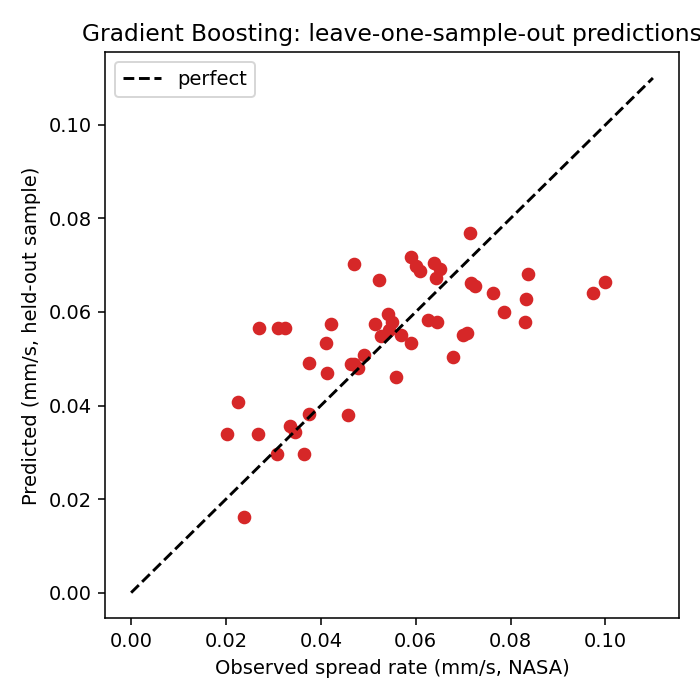
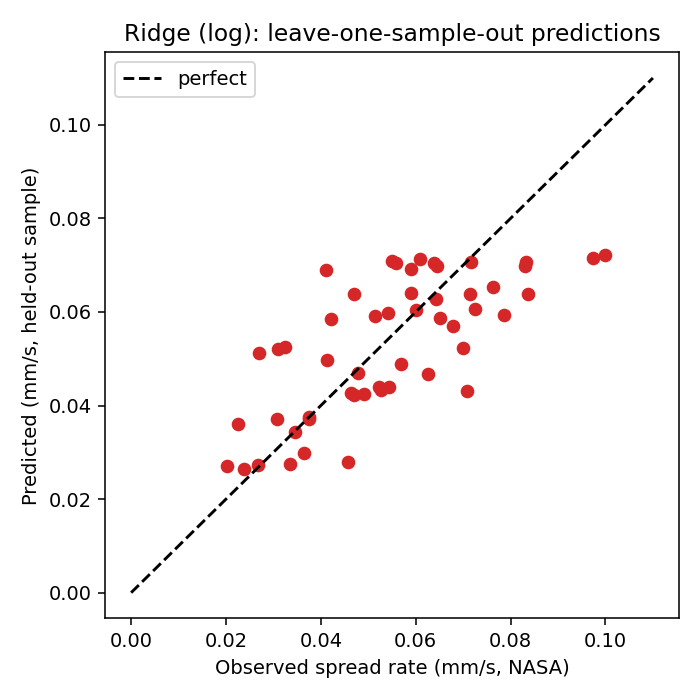
ML/RAG

diff --git a/frontend/src/PredictiveLab.jsx b/frontend/src/PredictiveLab.jsx
@@ -8,10 +8,10 @@ import './PredictiveLab.css';
 //   bash backend/ai/ml/run_all.sh                      (once, trains the model)
 //   uvicorn backend.api.main:app --reload --port 8000
 
-const USE_MOCK = true;
+const USE_MOCK = false; // real backend: POST /api/predict and /api/sweep
 // Backend routes live in backend/api/ml_routes.py. The backend only allows the
 // browser origin http://localhost:5173, so open the app at exactly that address.
-const API_BASE = 'http://localhost:8000/api';
+const API_BASE = '/api'; // proxied to the backend by Vite (see vite.config.js)
 const API_URL = `${API_BASE}/predict`;
 const SWEEP_URL = `${API_BASE}/sweep`;
 
@@ -25,7 +25,7 @@ const TRAINED = {
 const APPROX_ERROR = 0.0138; // typical cross-validated error, mm/s
 const ROD_LENGTH_MM = 57;
 
-// Hand-tuned stand-in for the Gradient Boosting model. NOT real NASA output.
+// Hand-tuned stand-in for the real model (only used when USE_MOCK = true). NOT real NASA output.
 // Shape: rises with O2, rises then falls with airflow, falls with thicker rods,
 // clamped to the 0.02–0.10 mm/s range seen in the real data.
 function mockModel(o2, flow, diameter) {
@@ -116,7 +116,7 @@ function buildMockResponse({ o2_percent: o2, opposed_flow_cm_s: flow, rod_diamet
         Number((rate + APPROX_ERROR).toFixed(4)),
       ],
       valueType: 'mock_prediction',
-      model: 'Mock curve (stand-in for Gradient Boosting)',
+      model: 'Mock curve (stand-in for the Ridge model)',
     },
     peakTemperature: {
       available: false,
@@ -174,10 +174,10 @@ async function fetchSweep(flow, diameter, { signal } = {}) {
 /* ===== End API layer ===== */
 
 const MODEL_STATS = [
-  { label: 'MAE', value: '0.0105 mm/s' },
-  { label: 'RMSE', value: '0.0137 mm/s' },
-  { label: 'R²', value: '0.47' },
-  { label: 'MAPE', value: '22.1%' },
+  { label: 'MAE', value: '0.0108 mm/s' },
+  { label: 'RMSE', value: '0.0133 mm/s' },
+  { label: 'R²', value: '0.51' },
+  { label: 'MAPE', value: '21.6%' },
   { label: 'Samples', value: '19 (52 tests)' },
 ];
 
@@ -266,11 +266,11 @@ function SweepChart({ flow, diameter, o2, result }) {
   const err = sweep.approxError;
   const hasData = pts.length > 0;
   const line = pts.map((p, i) => `${i ? 'L' : 'M'}${sx(p.o2).toFixed(1)} ${sy(p.rate).toFixed(1)}`).join(' ');
-  const upper = pts.map((p) => `${sx(p.o2).toFixed(1)} ${sy(Math.min(yMax, p.rate + err)).toFixed(1)}`);
+  const upper = pts.map((p) => `${sx(p.o2).toFixed(1)} ${sy(Math.min(yMax, p.hi ?? p.rate + err)).toFixed(1)}`);
   const lower = pts
     .slice()
     .reverse()
-    .map((p) => `${sx(p.o2).toFixed(1)} ${sy(Math.max(0, p.rate - err)).toFixed(1)}`);
+    .map((p) => `${sx(p.o2).toFixed(1)} ${sy(Math.max(0, p.lo ?? p.rate - err)).toFixed(1)}`);
   const band = `M${upper.join(' L')} L${lower.join(' L')} Z`;
 
   const showMarker = result && o2 >= xLo && o2 <= xHi;
@@ -413,7 +413,7 @@ export default function PredictiveLab({ gravityOption }) {
   const hazard = result?.risk.hazardIndicator ?? '';
   const hazardClass = hazard.startsWith('Lower')
     ? 'hazard--low'
-    : hazard.startsWith('Higher')
+    : hazard.startsWith('Higher') || hazard.startsWith('Upper')
     ? 'hazard--high'
     : 'hazard--mid';
   const confClass = result?.confidence === 'Low' ? 'conf--low' : 'conf--mid';
@@ -582,7 +582,7 @@ export default function PredictiveLab({ gravityOption }) {
           ))}
         </dl>
         <p className="caption">
-          Gradient Boosting, leave-one-sample-out validation, trained on NASA BASS-II ISS tests (Link et al., 2018).
+          Ridge regression on log(spread rate), leave-one-sample-out validation, trained on NASA BASS-II ISS tests (Link et al., 2018).
           {USE_MOCK && ' The values above are produced by a mock curve until the backend is connected.'}
         </p>
       </div>

diff --git a/backend/ai/ml/train_model.py b/backend/ai/ml/train_model.py
@@ -7,19 +7,37 @@ from sklearn.ensemble import RandomForestRegressor, GradientBoostingRegressor
 from sklearn.linear_model import LinearRegression, Ridge
 from sklearn.model_selection import LeaveOneGroupOut, cross_val_predict
 from sklearn.pipeline import make_pipeline
-from sklearn.preprocessing import StandardScaler
+from sklearn.compose import TransformedTargetRegressor
+from sklearn.preprocessing import FunctionTransformer, StandardScaler
 from sklearn.metrics import mean_squared_error
 from .config import PROCESSED, MODELS, RESULTS, TARGET, GROUP, FEATURES, SOURCE
-from .feature_engineering import build_features
+from .feature_engineering import build_features, engineer
+
+def _log_linear(reg):
+    """Smooth model: regress log(spread rate) on engineered inputs, then exp() back to mm/s."""
+    return TransformedTargetRegressor(
+        regressor=make_pipeline(FunctionTransformer(engineer), StandardScaler(), reg),
+        func=np.log, inverse_func=np.exp)
 
 def candidates():
     return {
         "Baseline (mean)": DummyRegressor(strategy="mean"),
-        "Linear regression": make_pipeline(StandardScaler(), LinearRegression()),
-        "Ridge": make_pipeline(StandardScaler(), Ridge(alpha=1.0)),
+        "Linear regression (log)": _log_linear(LinearRegression()),
+        "Ridge (log)": _log_linear(Ridge(alpha=1.0)),
         "Random Forest": RandomForestRegressor(n_estimators=300, min_samples_leaf=2, random_state=42),
         "Gradient Boosting": GradientBoostingRegressor(n_estimators=150, max_depth=2, learning_rate=0.05, random_state=42),
     }
+
+def is_physically_sane(model, df) -> bool:
+    """Spread rate must not DROP as oxygen rises (at fixed flow & diameter) anywhere we have data.
+    Tree models fit on 52 rows fail this with spurious dips; we don't ship a model that does."""
+    o2 = np.linspace(df.o2_percent.min(), df.o2_percent.max(), 40)
+    for d in df.rod_diameter_cm.unique():
+        for flow in (0.5, 1.0, 2.0, 5.0):
+            grid = pd.DataFrame({"o2_percent": o2, "opposed_flow_cm_s": flow, "rod_diameter_cm": d})
+            if (np.diff(model.predict(grid)) < -1e-4).any():
+                return False
+    return True
 
 def train() -> None:
     MODELS.mkdir(exist_ok=True); RESULTS.mkdir(exist_ok=True)
@@ -32,14 +50,20 @@ def train() -> None:
         rmse[name] = float(np.sqrt(mean_squared_error(y, preds[name])))
         print(f"{name:20s} LOSO-CV RMSE = {rmse[name]:.4f} mm/s")
     real = {k: v for k, v in rmse.items() if k != "Baseline (mean)"}
-    best = min(real, key=real.get)
-    print(f"\nSelected model: {best}")
+    sane = {}
+    for k in real:
+        ok = is_physically_sane(candidates()[k].fit(X, y), df)
+        print(f"{k:24s} monotone in O2: {'yes' if ok else 'NO (excluded)'}")
+        if ok: sane[k] = real[k]
+    best = min(sane, key=sane.get)
+    print(f"\nSelected model: {best}  (lowest CV error among physically sensible models)")
     out = df[["record_id", GROUP] + FEATURES + [TARGET]].copy()
     for k, v in preds.items(): out[f"pred_{k}"] = v
     out.to_csv(RESULTS / "cv_predictions.csv", index=False)
     final = candidates()[best].fit(X, y)         # final model fits ALL data; reported metrics come from CV only
     resid_sd = float(np.std(y - preds[best], ddof=1))
-    joblib.dump({"model": final, "features": FEATURES, "model_name": best, "cv_residual_sd_mm_s": resid_sd,
+    log_sd = float(np.std(np.log(np.clip(preds[best], 1e-6, None)) - np.log(y), ddof=1))  # relative (multiplicative) error
+    joblib.dump({"model": final, "features": FEATURES, "model_name": best, "cv_residual_sd_mm_s": resid_sd, "cv_log_residual_sd": log_sd,
                  "train_ranges": {c: [float(X[c].min()), float(X[c].max())] for c in FEATURES},
                  "per_diameter_ranges": {str(d): {"o2_percent": [float(g.o2_percent.min()), float(g.o2_percent.max())], "opposed_flow_cm_s": [float(g.opposed_flow_cm_s.min()), float(g.opposed_flow_cm_s.max())]} for d, g in df.groupby("rod_diameter_cm")},
                  "sklearn_version": sklearn.__version__,

diff --git a/backend/ai/ml/predict.py b/backend/ai/ml/predict.py
@@ -1,6 +1,7 @@
 """Load the saved model and predict spread rate for one scenario, with out-of-range warnings.
 Run from the repo root: python -m backend.ai.ml.predict --o2 18.5 --flow 2 --diameter 0.64"""
 import argparse, joblib, sklearn
+import numpy as np
 import pandas as pd
 from .config import MODELS
 
@@ -25,6 +26,7 @@ def predict(o2_percent: float, opposed_flow_cm_s: float, rod_diameter_cm: float)
     x = pd.DataFrame([[o2_percent, opposed_flow_cm_s, rod_diameter_cm]], columns=b["features"])
     p = max(float(b["model"].predict(x)[0]), 0.0)
     sd = b["cv_residual_sd_mm_s"]
+    log_sd = b.get("cv_log_residual_sd")
     warnings = []
     for col, v in zip(b["features"], x.iloc[0]):
         lo, hi = b["train_ranges"][col]
@@ -37,9 +39,16 @@ def predict(o2_percent: float, opposed_flow_cm_s: float, rod_diameter_cm: float)
         v = x.iloc[0][col]; lo, hi = pr[col]
         if not lo <= v <= hi and not any("outside the NASA training range" in w and col in w for w in warnings):
             warnings.append(f"No NASA test for rod d~{nearest} cm covers {col}={v} (tested {lo}-{hi}); prediction is interpolation between other diameters.")
+    # Error band = 1 std. dev. of leave-one-sample-out CV error. Errors are relative (log scale), so the band
+    # scales with the prediction. Outside the tested conditions it is doubled (a heuristic, not a fitted value).
+    if log_sd is not None:
+        k = 1.0 if not warnings else 2.0
+        lo, hi = p * np.exp(-k * log_sd), p * np.exp(k * log_sd)
+    else:
+        lo, hi = max(p - sd, 0), p + sd
     return {"value_type": "model_prediction", "predicted_spread_rate_mm_s": round(p, 4),
-            "approx_uncertainty_mm_s": round(sd, 4),            # 1 std. dev. of leave-one-sample-out CV error
-            "range_mm_s": [round(max(p - sd, 0), 4), round(p + sd, 4)],
+            "approx_uncertainty_mm_s": round(sd, 4),
+            "range_mm_s": [round(float(lo), 4), round(float(hi), 4)],
             "in_training_range": not warnings, "warnings": warnings,
             "model": b["model_name"], "source": b["source"]}
 

diff --git a/backend/api/ml_routes.py b/backend/api/ml_routes.py
@@ -27,6 +27,25 @@ def ml_health():
             "train_ranges": b["train_ranges"], "cv_residual_sd_mm_s": b["cv_residual_sd_mm_s"]}
 
 
+class SweepRequest(BaseModel):
+    opposed_flow_cm_s: float = Field(..., gt=0, le=500)
+    rod_diameter_cm: float = Field(..., gt=0, le=5)
+
+
+@router.post("/sweep")
+def sweep_endpoint(s: SweepRequest, steps: int = 42):
+    """Model output across the tested oxygen range at a fixed airflow and rod diameter (for the chart)."""
+    b = _load()
+    lo, hi = b["train_ranges"]["o2_percent"]
+    points = []
+    for i in range(steps + 1):
+        o2 = lo + (hi - lo) * i / steps
+        r = predict(o2, s.opposed_flow_cm_s, s.rod_diameter_cm)
+        points.append({"o2": round(o2, 3), "rate": r["predicted_spread_rate_mm_s"],
+                       "lo": r["range_mm_s"][0], "hi": r["range_mm_s"][1]})
+    return {"points": points, "approxError": b["cv_residual_sd_mm_s"]}
+
+
 @router.post("/predict")
 def predict_endpoint(s: Scenario):
     unsupported = []

diff --git a/backend/ai/ml/feature_engineering.py b/backend/ai/ml/feature_engineering.py
@@ -1,7 +1,17 @@
 """Turn raw columns into model inputs. Kept deliberately small (52 rows)."""
+import numpy as np
 import pandas as pd
 from .config import FEATURES
 
 def build_features(df: pd.DataFrame) -> pd.DataFrame:
     """Physics-motivated inputs only: O2 %, opposed flow, rod diameter. No target-derived columns (no leakage)."""
     return df[FEATURES].astype(float).copy()
+
+
+def engineer(X: pd.DataFrame) -> pd.DataFrame:
+    """Model inputs used inside the smooth models' pipeline.
+    log(flow) and log(flow)^2 let the model capture the rise-then-fall of spread rate with airflow
+    (thermal vs chemical regime in microgravity) while staying a smooth curve. Needs no target values."""
+    lf = np.log(X["opposed_flow_cm_s"].astype(float))
+    return pd.DataFrame({"o2_percent": X["o2_percent"].astype(float), "log_flow": lf,
+                         "log_flow_sq": lf ** 2, "rod_diameter_cm": X["rod_diameter_cm"].astype(float)})

diff --git a/backend/ai/ml/README.md b/backend/ai/ml/README.md
@@ -20,10 +20,17 @@ One S2 (1g) cell is ambiguous (flagged in the `note` column); S2 is not used for
 The model is also served by the main API (`./dev.sh`): `POST /api/predict`, `GET /api/ml/health` (docs at http://localhost:8000/docs).
 The saved model is a pickle; if scikit-learn's version differs from the one that saved it, `predict.py` retrains automatically from the bundled data.
 
-## Evaluation (leave-one-sample-out CV; see results/evaluation_report.txt)
+## Model and evaluation (leave-one-sample-out CV; see results/evaluation_report.txt)
 Rows from the same physical sample are never split between train and test.
-Gradient Boosting: RMSE 0.0137 mm/s vs 0.0199 for predicting the mean (31% lower), R2 = 0.47. The gap to Ridge (0.0156) is small with this little data.
+**Selected: Ridge regression on log(spread rate)** with inputs O2 %, log(flow), log(flow)^2 and rod diameter (a smooth curve; the
+log(flow)^2 term captures spread rate rising then falling with airflow). CV RMSE 0.0133 mm/s vs 0.0199 for predicting the mean
+(33% lower), R2 = 0.51.
+Tree models (Gradient Boosting, Random Forest) are also trained for comparison, but `train_model.py` only ships a model that is
+physically sensible: spread rate must not drop as oxygen rises. The trees fail that check (spurious dips, plateaus, and a ~70% jump
+between adjacent rod diameters) so they are excluded even though Gradient Boosting's raw error is close (0.0137).
+Choosing among 5 models on the same 52 rows is slightly optimistic; treat R2 ~0.5 as an upper estimate.
 Quote RMSE (with units) and R2; we deliberately do not report an "accuracy %".
+The error band is multiplicative (about +/-30% at 1 sd, from the CV residuals) and is doubled outside the tested conditions (a heuristic).
 
 ## Risk indicators
 `risk.py` is rule-based (not ML). The "relative spread rate" tier compares the prediction with terciles of the 52 observed spread rates.
